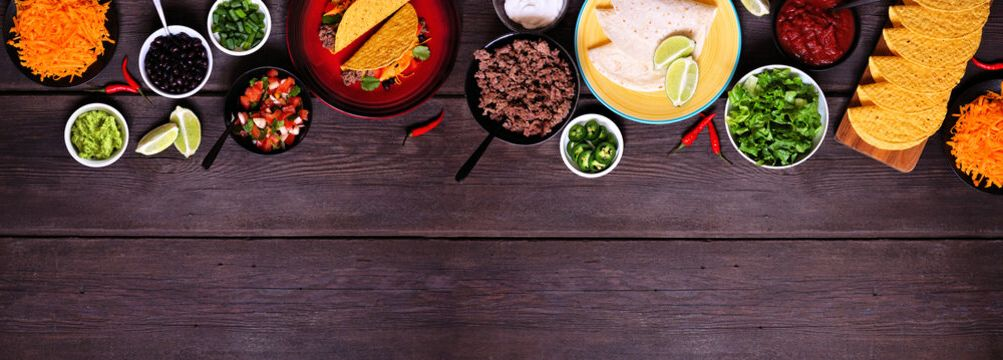
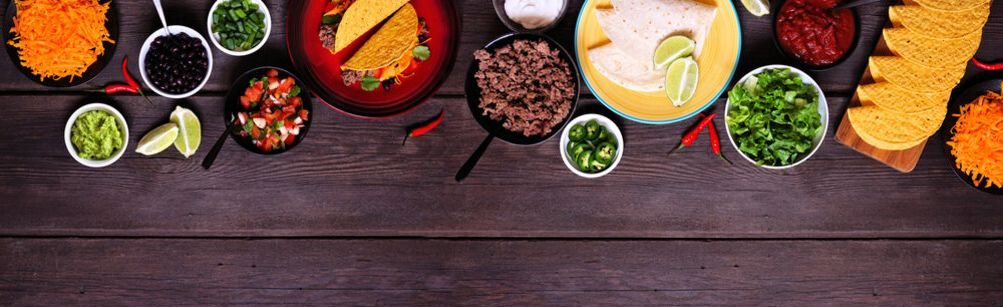
edited picture

diff --git a/src/pages/index.js b/src/pages/index.js
@@ -295,7 +295,7 @@ export default function Home() {
               style={{
                 width: "100%",
                 borderRadius: "5px",
-                objectFit: "cover",
+                objectFit: "fill",
               }}
             >
               <img
@@ -303,7 +303,7 @@ export default function Home() {
                 style={{
                   width: "100%",
                   borderRadius: "5px",
-                  objectFit: "cover",
+                  objectFit: "fill",
                 }}
               ></img>
             </div>
@@ -312,7 +312,7 @@ export default function Home() {
               style={{
                 width: "100%",
                 borderRadius: "5px",
-                objectFit: "cover",
+                objectFit: "fill",
               }}
             >
               <img
